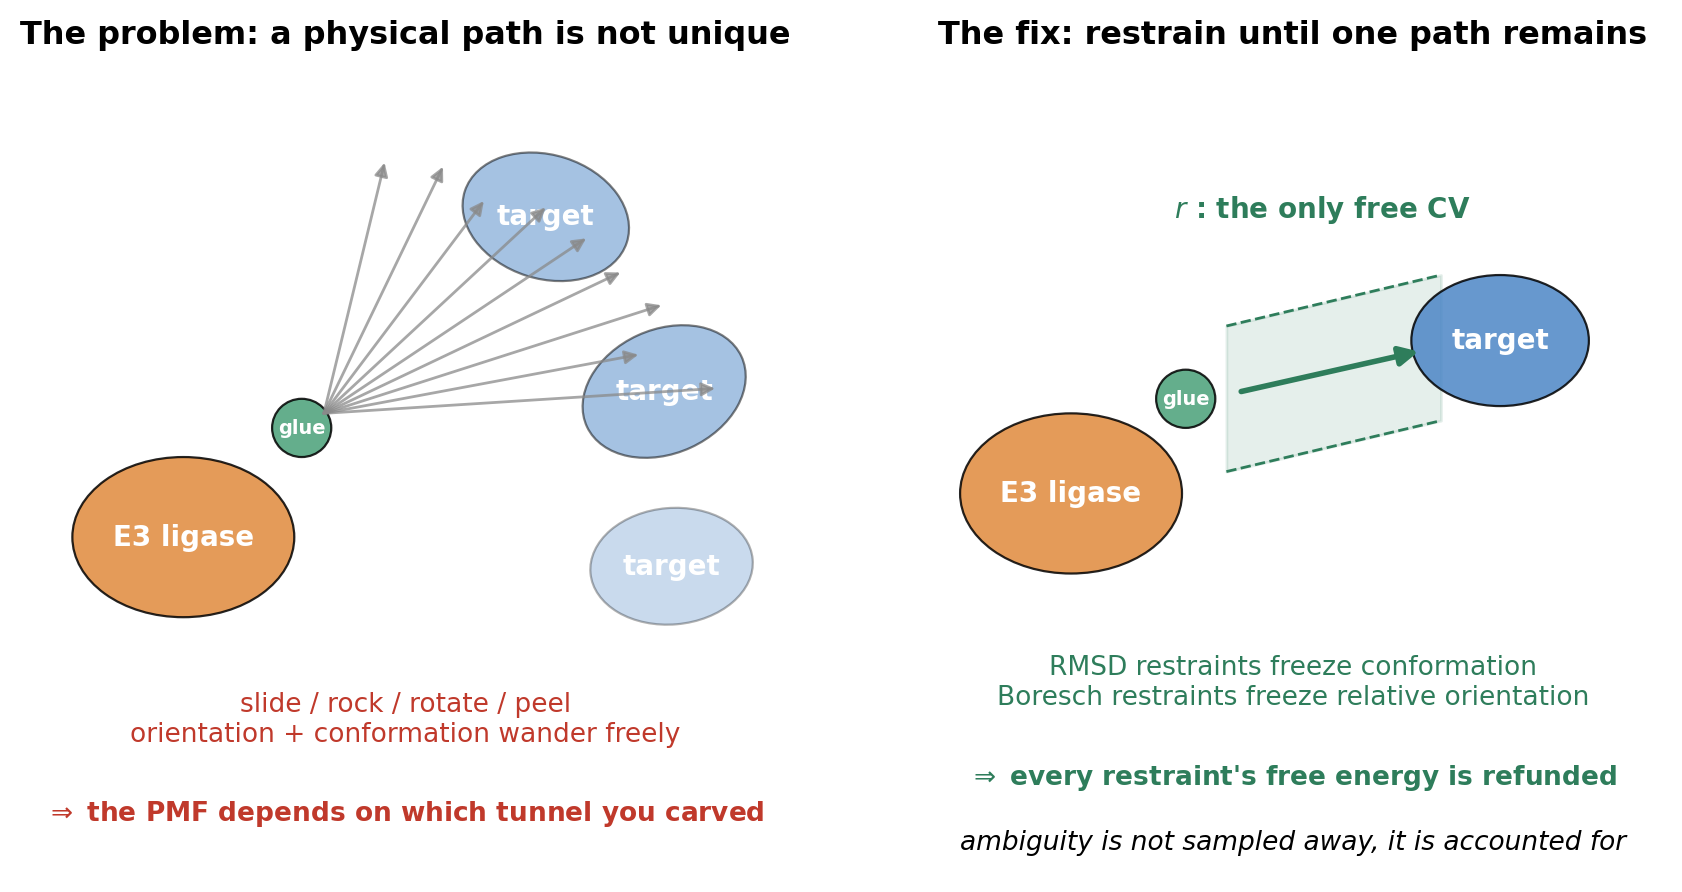
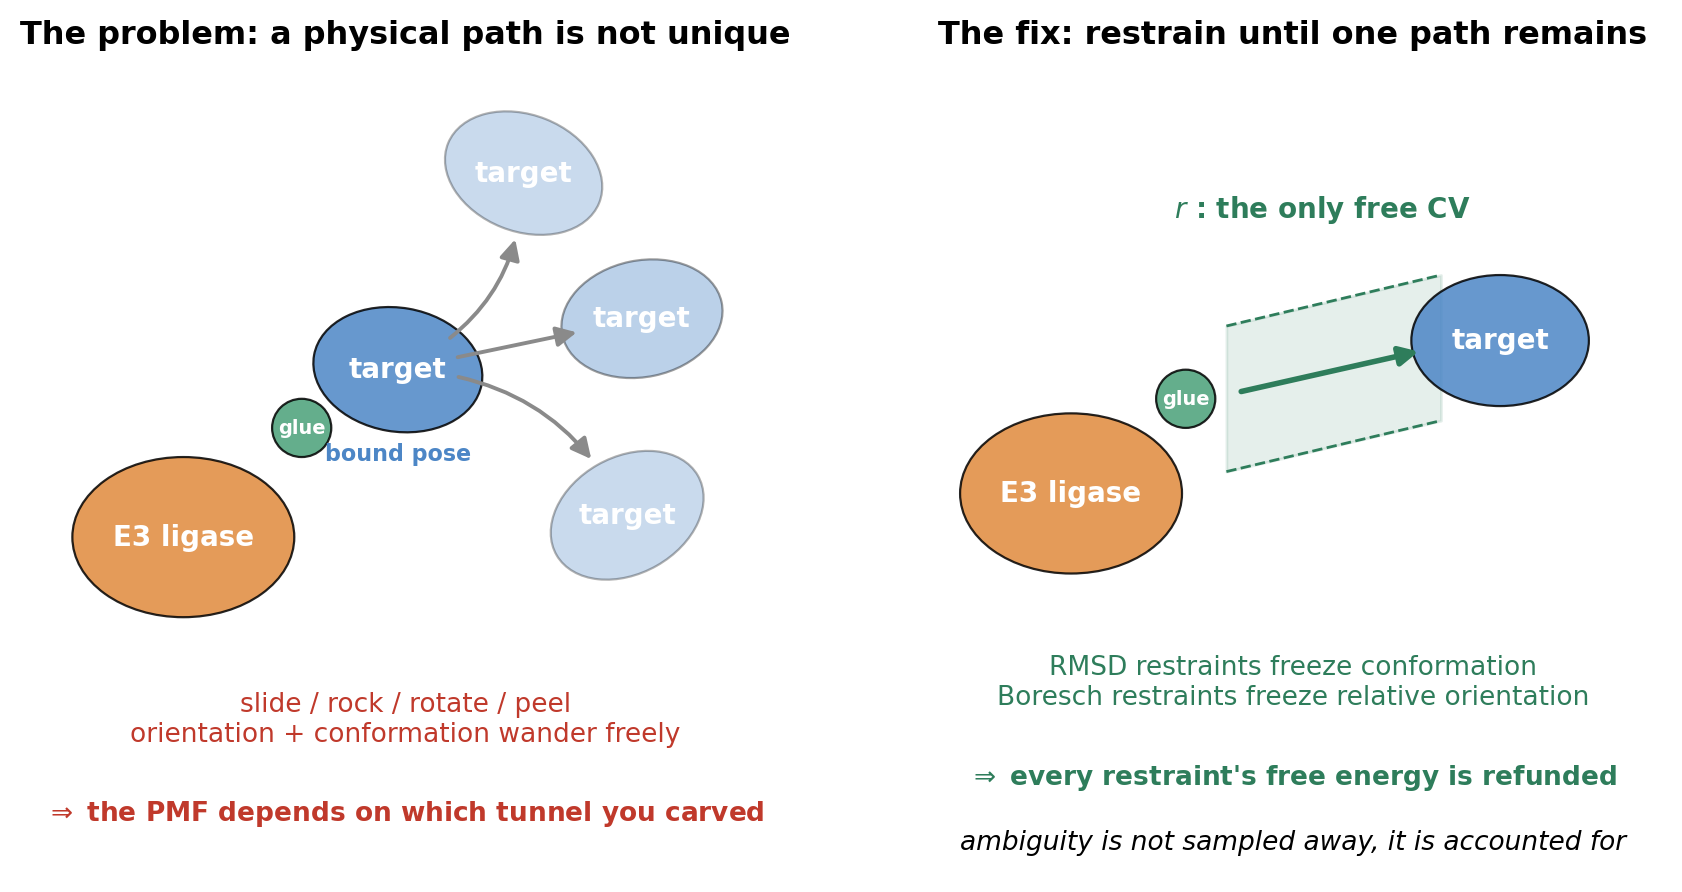
Fix missing translation and Figure 1 arrows in US ternary post
The two failure-mode bullets in section 2 were English-only; add the
Chinese halves to match the rest of the post.

Redraw the left panel of Figure 1: it previously showed arrows radiating
from the glue with no bound-state target, which read as rays rather than
alternative dissociation routes. Now the target is drawn in its bound pose
with curved arrows departing to three faded copies.

Changed region(s): [[0.1855, 0.1211, 0.4637, 0.7265]]

diff --git a/_scripts/make_us_ternary_figs.py b/_scripts/make_us_ternary_figs.py
@@ -66,16 +66,22 @@ def fig1_path_problem():
     ax.text(3.6, 6.1, "glue", ha="center", va="center", fontsize=7,
             color="white", fontweight="bold", zorder=4)
 
-    rng = np.random.default_rng(3)
-    for ang in np.linspace(5, 80, 9):
-        th = np.deg2rad(ang)
-        L = 4.9 + rng.normal(0, 0.2)
-        x1, y1 = 3.9 + L * np.cos(th), 6.3 + L * np.sin(th) * 0.74
-        arrow(ax, (3.9, 6.3), (x1, y1), color=C_GREY, lw=1.0, alpha=0.75,
-              mutation=10)
-    protein(ax, (6.9, 9.0), 2.3, 1.7, C_TARGET, "target", angle=-18, alpha=0.5)
-    protein(ax, (8.5, 6.6), 2.3, 1.7, C_TARGET, "target", angle=25, alpha=0.5)
-    protein(ax, (8.6, 4.2), 2.2, 1.6, C_TARGET, "target", angle=5, alpha=0.3)
+    # the bound-state target, sitting on the glue-created interface
+    bound = (4.9, 6.9)
+    protein(ax, bound, 2.3, 1.7, C_TARGET, "target", angle=-10)
+    ax.text(bound[0], bound[1] - 1.25, "bound pose", ha="center", fontsize=8,
+            color=C_TARGET, fontweight="bold")
+
+    # each escape route ends in its own faded copy of the target
+    routes = [((6.6, 9.6), -22, 0.30), ((8.2, 7.6), 12, 0.38),
+              ((8.0, 4.9), 30, 0.30)]
+    for (pos, ang, al) in routes:
+        protein(ax, pos, 2.2, 1.6, C_TARGET, "target", angle=ang, alpha=al)
+    for (pos, _, _), rad in zip(routes, (0.32, 0.0, -0.3)):
+        a = FancyArrowPatch(bound, pos, arrowstyle="-|>", color=C_GREY,
+                            lw=1.4, mutation_scale=15, shrinkA=22, shrinkB=24,
+                            connectionstyle="arc3,rad=%.2f" % rad, zorder=4)
+        ax.add_patch(a)
     ax.text(5.0, 2.1,
             "slide / rock / rotate / peel\n"
             "orientation + conformation wander freely",

diff --git a/_posts/2026-11-16-umbrella-sampling-ternary-complex-geometric-route.md b/_posts/2026-11-16-umbrella-sampling-ternary-complex-geometric-route.md
@@ -49,8 +49,8 @@ Free energy is a **state function**, so an alchemical path is allowed to be arbi
 
 ![Figure 1 — The path-completeness problem and the geometric route's answer. Left: with only a separation coordinate controlled, the two proteins can slide, rock and rotate as they come apart, so the PMF reflects whichever tunnel the steered MD happened to carve. Right: RMSD restraints freeze each protein's conformation and Boresch restraints freeze their relative orientation, leaving the separation coordinate r as the only free CV — and every restraint's free energy is paid back later in the cycle.](/images/blog/us-ternary-geometric-route/fig1_path_completeness.png)
 
-1. **Under-sampling / 采样不足.** In each separation window the proteins have time to tumble and rearrange; converging over all of that is, in practice, never achieved.
-2. **Path dependence / 路径依赖.** The PMF depends on which tunnel your steered MD carved. A different pull gives a different number, with no internal way to tell which is right.
+1. **Under-sampling / 采样不足.** In each separation window the proteins have time to tumble and rearrange; converging over all of that is, in practice, never achieved. / 在每个分离窗口里，两个蛋白都有时间翻滚、重排；要把这些全部采样收敛，实际上做不到。
+2. **Path dependence / 路径依赖.** The PMF depends on which tunnel your steered MD carved. A different pull gives a different number, with no internal way to tell which is right. / PMF 取决于你的 steered MD 恰好挖出了哪条隧道。换一次拉伸就得到另一个数，而你没有任何内部判据能说明哪个才对。
 
 The geometric route's answer is almost cheeky in its simplicity: **do not let the orthogonal degrees of freedom move — restrain them, and then pay back the cost of every restraint exactly.**
 
